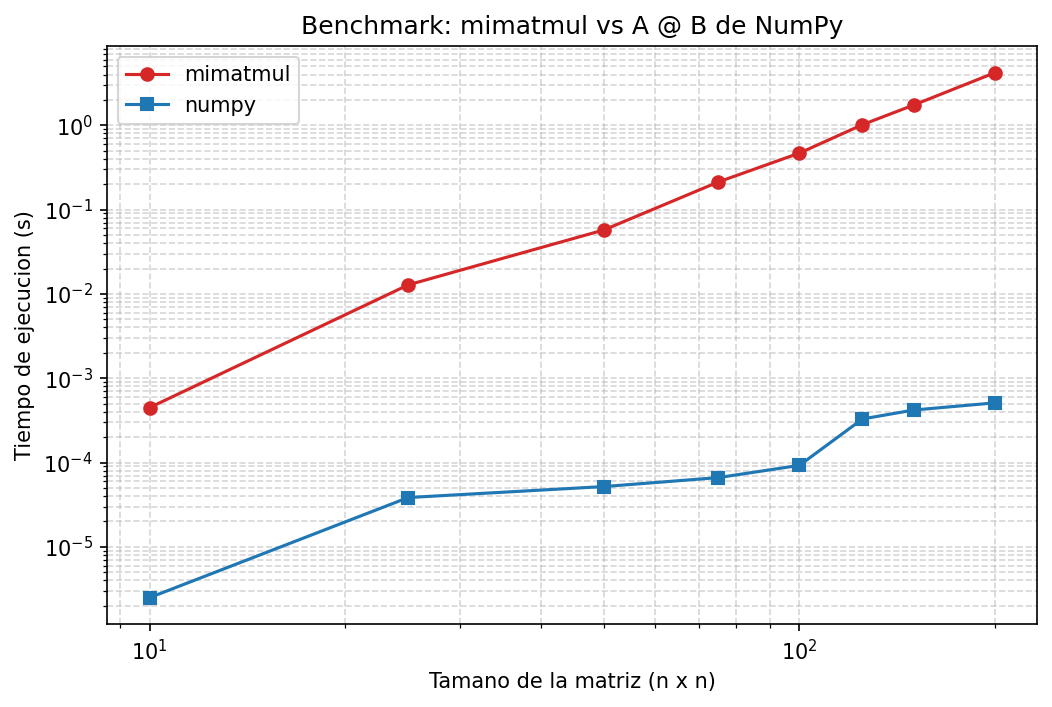
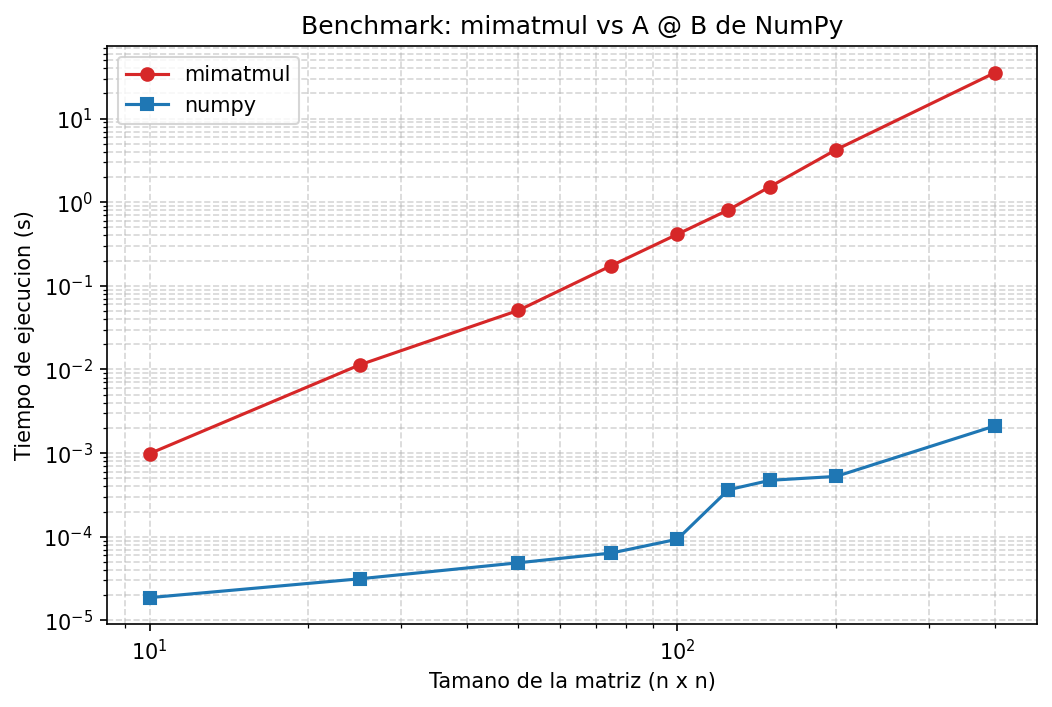
Benchmark con tamano adicional n=400 y actualizacion del README con resultados

Changed region(s): [[0.0304, 0.0622, 1.0, 0.9335], [0.73, 0.9024, 0.7909, 0.9335], [0.0913, 0.0934, 0.1217, 0.1245]]

diff --git a/src/benchmark.py b/src/benchmark.py
@@ -20,7 +20,7 @@ HERE = Path(__file__).resolve().parent.parent
 DATA_DIR = HERE / "data"
 FIGURES_DIR = HERE / "figures"
 
-SIZES = [10, 25, 50, 75, 100, 125, 150, 200]
+SIZES = [10, 25, 50, 75, 100, 125, 150, 200, 400]
 REPETICIONES = 3
 TIPO_DATO = np.float64
 

diff --git a/README.md b/README.md
@@ -62,14 +62,15 @@ Caracteristicas registradas en `data/system_info.json` (equipo evaluado, 2026-08
 ![Benchmark mimatmul vs NumPy](figures/benchmark.png)
 
 El grafico muestra el tiempo medio por repeticion (escala log-log) para matrices
-cuadradas de `n = 10` a `n = 200`. Se miden 3 repeticiones por tamano, precedidas
+cuadradas de `n = 10` a `n = 400`. Se miden 3 repeticiones por tamano, precedidas
 de una llamada de calentamiento.
 
 Comportamiento observado:
 
-- `mimatmul` crece aproximadamente como `n^3`: de ~0.0005 s en `n=10` a ~4.2 s en `n=200`.
-- NumPy es casi insensible al tamano en este rango (~0.0005 s en `n=200`), unas
-  ~8000 veces mas rapido en el tamano mayor.
+- `mimatmul` crece aproximadamente como `n^3`: de ~0.0005 s en `n=10` a ~35 s en `n=400`
+  (al duplicar de 200 a 400, el tiempo se multiplica por ~8).
+- NumPy es mucho mas rapido en todo el rango: ~0.002 s en `n=400`, unas
+  ~17000 veces mas rapido en el tamano mayor.
 - Las repeticiones del mismo caso no son identicas (p. ej. `mimatmul` en `n=125`
   vario entre ~0.95 y ~1.11 s) porque el tiempo depende de la planificacion del
   sistema operativo, el turbo del procesador y la actividad de fondo.
